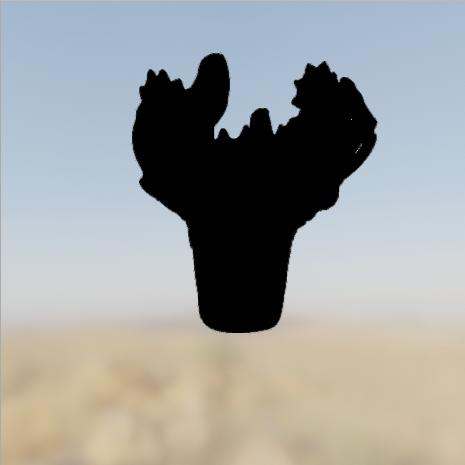
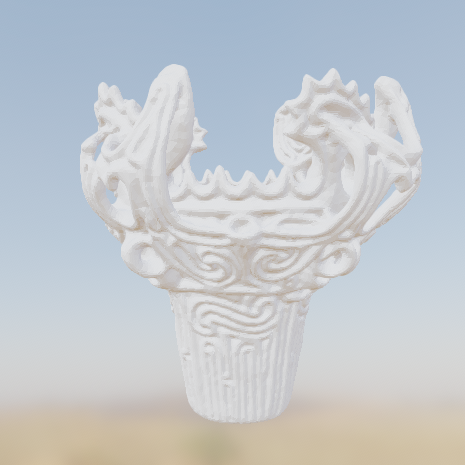
Updated Filament from v1.3.3 to v1.4.3

diff --git a/cx20/kqyY/index.html b/cx20/kqyY/index.html
@@ -12,7 +12,7 @@
 <!-- generated by: jsdo.it - http://jsdo.it/cx20/kqyY -->
 <!-- Copyright cx20 - http://jsdo.it/cx20 -->
 <!-- Licensed under MIT License - http://www.opensource.org/licenses/mit-license.php -->
-<script src="https://rawcdn.githack.com/cx20/gltf-test/076d00ab4da1989f51e559a63cd292dea83127f7/libs/filament/v1.3.3dev/filament.js"></script>
+<script src="https://rawcdn.githack.com/cx20/gltf-test/4a1b784e3c9f071400e9e4f68e827de684122884/libs/filament/v1.4.3/filament.js"></script>
 
 <script src="//unpkg.com/gl-matrix@2.8.1/dist/gl-matrix-min.js"></script>
 <script src="//unpkg.com/gltumble@1.0.1/gltumble.js"></script>
